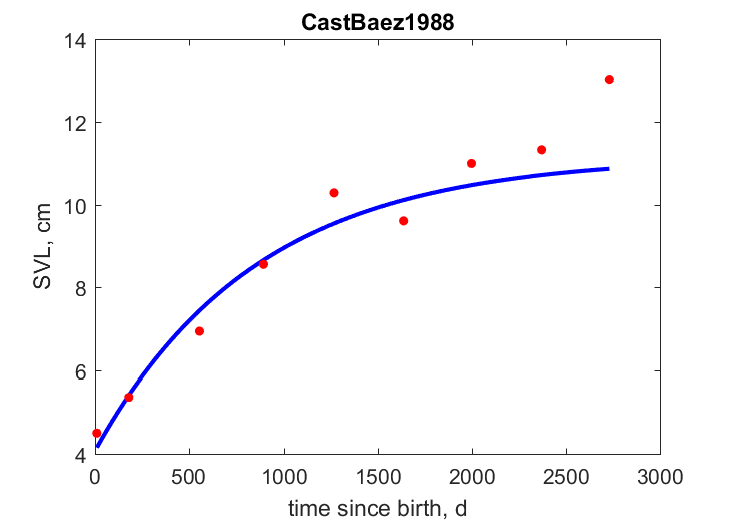
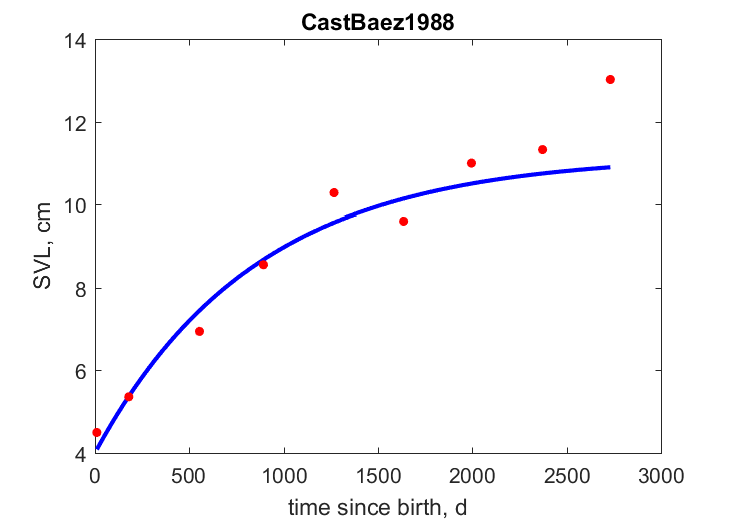
Gallotia galloti files for upload to AmP

diff --git a/Gallotia_galloti_res.html b/Gallotia_galloti_res.html
@@ -44,7 +44,7 @@
   </div>
 
   <div class="par">
-  <h4>COMPLETE = 2.5; MRE =    0.101; SMSE =    0.096 </h4>
+  <h4>COMPLETE = 2.5; MRE =    0.110; SMSE =    0.098 </h4>
   </div>
 
   <p class="clear"></p>
@@ -53,27 +53,26 @@
   <h2>Data & predictions</h2>
   <TABLE id="prd">
     <TR  class="head"><TH>data</TH> <TH>prd</TH> <TH>RE</TH>  <TH>symbol</TH> <TH>units</TH> <TH>description</TH> </TR>
-    <TR><TD> 56</TD> <TD>59.38</TD> <TD>0.06029</TD> <TD>ab</TD> <TD>d</TD> <TD>age at birth</TD></TR>
-    <TR><TD>1460</TD> <TD>1379</TD> <TD>0.05566</TD> <TD>tp</TD> <TD>d</TD> <TD>time since birth at puberty</TD></TR>
-    <TR><TD>2920</TD> <TD>2920</TD> <TD>6.71e-06</TD> <TD>am</TD> <TD>d</TD> <TD>life span</TD></TR>
-    <TR><TD>4.5</TD> <TD>4.067</TD> <TD>0.09617</TD> <TD>Lb</TD> <TD>cm</TD> <TD>SVL at hatching</TD></TR>
-    <TR><TD>7.7</TD> <TD>9.305</TD> <TD>0.2084</TD> <TD>Lp</TD> <TD>cm</TD> <TD>SVL at puberty</TD></TR>
-    <TR><TD>8.1</TD> <TD>12.24</TD> <TD>0.5109</TD> <TD>Lpm</TD> <TD>cm</TD> <TD>SVL at puberty males</TD></TR>
-    <TR><TD>10.2</TD> <TD>11.16</TD> <TD>0.0939</TD> <TD>Li</TD> <TD>cm</TD> <TD>ultimate SVL</TD></TR>
-    <TR><TD>12.2</TD> <TD>12.24</TD> <TD>0.003157</TD> <TD>Lim</TD> <TD>cm</TD> <TD>ultimate SVL males</TD></TR>
-    <TR><TD>1.63</TD> <TD>1.704</TD> <TD>0.04526</TD> <TD>Ww0</TD> <TD>g</TD> <TD>wet weight of egg</TD></TR>
-    <TR><TD>1.16</TD> <TD>1.109</TD> <TD>0.04369</TD> <TD>Wwb</TD> <TD>g</TD> <TD>wet weight of hatchlings</TD></TR>
-    <TR><TD>20.72</TD> <TD>22.9</TD> <TD>0.1054</TD> <TD>Wwi</TD> <TD>g</TD> <TD>ultimate wet weight</TD></TR>
-    <TR><TD>34.43</TD> <TD>30.65</TD> <TD>0.1097</TD> <TD>Wwim</TD> <TD>g</TD> <TD>ultimate wet weight of males</TD></TR>
-    <TR><TD>0.008082</TD> <TD>0.007986</TD> <TD>0.01188</TD> <TD>Ri</TD> <TD>#/d</TD> <TD>maximum reprod rate</TD></TR>
-    <TR><TD colspan="2">see figure</TD> <TD>0.06858</TD> <TD>tL</TD> <TD colspan="2">time since birth, <font color="blue"><i>vs.</i></font> SVL</TD>
-    <TR class="psd"><TD>0.02</TD> <TD>0.06303</TD> <TD>2.152</TD> <TD>psd.v</TD> <TD>cm/d</TD> <TD>energy conductance</TD></TR>
-    <TR class="psd"><TD>0.8</TD> <TD>0.7629</TD> <TD>0.04635</TD> <TD>psd.kap</TD> <TD>-</TD> <TD>allocation fraction to soma</TD></TR>
+    <TR><TD> 56</TD> <TD>59.51</TD> <TD>0.06263</TD> <TD>ab</TD> <TD>d</TD> <TD>age at birth</TD></TR>
+    <TR><TD>1460</TD> <TD>1350</TD> <TD>0.07533</TD> <TD>tp</TD> <TD>d</TD> <TD>time since birth at puberty</TD></TR>
+    <TR><TD>2920</TD> <TD>2920</TD> <TD>8.999e-06</TD> <TD>am</TD> <TD>d</TD> <TD>life span</TD></TR>
+    <TR><TD>4.5</TD> <TD>4.003</TD> <TD>0.1105</TD> <TD>Lb</TD> <TD>cm</TD> <TD>SVL at hatching</TD></TR>
+    <TR><TD>7.7</TD> <TD>9.279</TD> <TD>0.2051</TD> <TD>Lp</TD> <TD>cm</TD> <TD>SVL at puberty</TD></TR>
+    <TR><TD>8.1</TD> <TD>12.21</TD> <TD>0.5076</TD> <TD>Lpm</TD> <TD>cm</TD> <TD>SVL at puberty males</TD></TR>
+    <TR><TD>10.2</TD> <TD>11.18</TD> <TD>0.09597</TD> <TD>Li</TD> <TD>cm</TD> <TD>ultimate SVL</TD></TR>
+    <TR><TD>12.2</TD> <TD>12.21</TD> <TD>0.0009618</TD> <TD>Lim</TD> <TD>cm</TD> <TD>ultimate SVL males</TD></TR>
+    <TR><TD>1.63</TD> <TD>1.748</TD> <TD>0.07238</TD> <TD>Ww0</TD> <TD>g</TD> <TD>wet weight of egg</TD></TR>
+    <TR><TD>1.16</TD> <TD>1.065</TD> <TD>0.08149</TD> <TD>Wwb</TD> <TD>g</TD> <TD>wet weight of hatchlings</TD></TR>
+    <TR><TD>20.72</TD> <TD>23.21</TD> <TD>0.1201</TD> <TD>Wwi</TD> <TD>g</TD> <TD>ultimate wet weight</TD></TR>
+    <TR><TD>34.43</TD> <TD>30.71</TD> <TD>0.1081</TD> <TD>Wwim</TD> <TD>g</TD> <TD>ultimate wet weight of males</TD></TR>
+    <TR><TD>0.008082</TD> <TD>0.007857</TD> <TD>0.0279</TD> <TD>Ri</TD> <TD>#/d</TD> <TD>maximum reprod rate</TD></TR>
+    <TR><TD colspan="2">see figure</TD> <TD>0.06817</TD> <TD>tL</TD> <TD colspan="2">time since birth, <font color="blue"><i>vs.</i></font> SVL</TD>
+    <TR class="psd"><TD>0.02</TD> <TD>0.06123</TD> <TD>2.061</TD> <TD>psd.v</TD> <TD>cm/d</TD> <TD>energy conductance</TD></TR>
+    <TR class="psd"><TD>0.8</TD> <TD>0.7036</TD> <TD>0.1205</TD> <TD>psd.kap</TD> <TD>-</TD> <TD>allocation fraction to soma</TD></TR>
     <TR class="psd"><TD>0.95</TD> <TD>0.95</TD> <TD>  0</TD> <TD>psd.kap_R</TD> <TD>-</TD> <TD>reproduction efficiency</TD></TR>
-    <TR class="psd"><TD> 18</TD> <TD>21.19</TD> <TD>0.1773</TD> <TD>psd.p_M</TD> <TD>J/d.cm^3</TD> <TD>vol-spec som maint</TD></TR>
-    <TR class="psd"><TD>0.002</TD> <TD>0.0007962</TD> <TD>0.6019</TD> <TD>psd.k_J</TD> <TD>1/d</TD> <TD>maturity maint rate coefficient</TD></TR>
-    <TR class="psd"><TD>0.8</TD> <TD>0.802</TD> <TD>0.002508</TD> <TD>psd.kap_G</TD> <TD>-</TD> <TD>growth efficiency</TD></TR>
-    <TR class="psd"><TD>0.3</TD> <TD>0.294</TD> <TD>0.01985</TD> <TD>psd.k</TD> <TD>-</TD> <TD>maintenance ratio</TD></TR>
+    <TR class="psd"><TD> 18</TD> <TD>21.51</TD> <TD>0.195</TD> <TD>psd.p_M</TD> <TD>J/d.cm^3</TD> <TD>vol-spec som maint</TD></TR>
+    <TR class="psd"><TD>0.002</TD> <TD>0.002</TD> <TD>  0</TD> <TD>psd.k_J</TD> <TD>1/d</TD> <TD>maturity maint rate coefficient</TD></TR>
+    <TR class="psd"><TD>0.8</TD> <TD>0.8029</TD> <TD>0.003588</TD> <TD>psd.kap_G</TD> <TD>-</TD> <TD>growth efficiency</TD></TR>
   </TABLE>
   </div>
 
@@ -83,25 +82,25 @@
     <TR class="head"><TH>symbol</TH> <TH>units</TH> <TH>value</TH>  <TH>free</TH> <TH>description</TH> </TR>
     <TR><TD>T_ref</TD> <TD>K</TD> <TD>293.1</TD> <TD>0</TD> <TD>Reference temperature</TD></TR>
     <TR><TD>T_A</TD> <TD>K</TD> <TD>8000</TD> <TD>0</TD> <TD>Arrhenius temperature</TD></TR>
-    <TR><TD>z</TD> <TD>-</TD> <TD>2.694</TD> <TD>1</TD> <TD>zoom factor for females</TD></TR>
+    <TR><TD>z</TD> <TD>-</TD> <TD>2.688</TD> <TD>1</TD> <TD>zoom factor for females</TD></TR>
     <TR><TD>F_m</TD> <TD>l/d.cm^2</TD> <TD>6.5</TD> <TD>0</TD> <TD>{F_m}, max spec searching rate</TD></TR>
     <TR><TD>kap_X</TD> <TD>-</TD> <TD>0.8</TD> <TD>0</TD> <TD>digestion efficiency of food to reserve</TD></TR>
     <TR><TD>kap_P</TD> <TD>-</TD> <TD>0.1</TD> <TD>0</TD> <TD>faecation efficiency of food to faeces</TD></TR>
-    <TR><TD>v</TD> <TD>cm/d</TD> <TD>0.06303</TD> <TD>1</TD> <TD>energy conductance</TD></TR>
-    <TR><TD>kap</TD> <TD>-</TD> <TD>0.7629</TD> <TD>1</TD> <TD>allocation fraction to soma</TD></TR>
+    <TR><TD>v</TD> <TD>cm/d</TD> <TD>0.06123</TD> <TD>1</TD> <TD>energy conductance</TD></TR>
+    <TR><TD>kap</TD> <TD>-</TD> <TD>0.7036</TD> <TD>1</TD> <TD>allocation fraction to soma</TD></TR>
     <TR><TD>kap_R</TD> <TD>-</TD> <TD>0.95</TD> <TD>0</TD> <TD>reproduction efficiency</TD></TR>
-    <TR><TD>p_M</TD> <TD>J/d.cm^3</TD> <TD>21.19</TD> <TD>1</TD> <TD>[p_M], vol-spec somatic maint</TD></TR>
+    <TR><TD>p_M</TD> <TD>J/d.cm^3</TD> <TD>21.51</TD> <TD>1</TD> <TD>[p_M], vol-spec somatic maint</TD></TR>
     <TR><TD>p_T</TD> <TD>J/d.cm^2</TD> <TD>  0</TD> <TD>0</TD> <TD>{p_T}, surf-spec somatic maint</TD></TR>
-    <TR><TD>k_J</TD> <TD>1/d</TD> <TD>0.0007962</TD> <TD>1</TD> <TD>maturity maint rate coefficient</TD></TR>
-    <TR><TD>E_G</TD> <TD>J/cm^3</TD> <TD>7826</TD> <TD>1</TD> <TD>[E_G], spec cost for structure</TD></TR>
-    <TR><TD>E_Hb</TD> <TD>J</TD> <TD>2455</TD> <TD>1</TD> <TD>maturity at birth</TD></TR>
-    <TR><TD>E_Hp</TD> <TD>J</TD> <TD>5.841e+04</TD> <TD>1</TD> <TD>maturity at puberty</TD></TR>
-    <TR><TD>h_a</TD> <TD>1/d^2</TD> <TD>4.201e-09</TD> <TD>1</TD> <TD>Weibull aging acceleration</TD></TR>
+    <TR><TD>k_J</TD> <TD>1/d</TD> <TD>0.002</TD> <TD>0</TD> <TD>maturity maint rate coefficient</TD></TR>
+    <TR><TD>E_G</TD> <TD>J/cm^3</TD> <TD>7817</TD> <TD>1</TD> <TD>[E_G], spec cost for structure</TD></TR>
+    <TR><TD>E_Hb</TD> <TD>J</TD> <TD>3012</TD> <TD>1</TD> <TD>maturity at birth</TD></TR>
+    <TR><TD>E_Hp</TD> <TD>J</TD> <TD>4.655e+04</TD> <TD>1</TD> <TD>maturity at puberty</TD></TR>
+    <TR><TD>h_a</TD> <TD>1/d^2</TD> <TD>4.317e-09</TD> <TD>1</TD> <TD>Weibull aging acceleration</TD></TR>
     <TR><TD>s_G</TD> <TD>-</TD> <TD>0.0001</TD> <TD>0</TD> <TD>Gompertz stress coefficient</TD></TR>
-    <TR><TD>E_Hpm</TD> <TD>J</TD> <TD>4.06e+05</TD> <TD>1</TD> <TD>maturity at puberty for males</TD></TR>
-    <TR><TD>del_M</TD> <TD>-</TD> <TD>0.2414</TD> <TD>1</TD> <TD>shape coefficient</TD></TR>
+    <TR><TD>E_Hpm</TD> <TD>J</TD> <TD>5.722e+05</TD> <TD>1</TD> <TD>maturity at puberty for males</TD></TR>
+    <TR><TD>del_M</TD> <TD>-</TD> <TD>0.2405</TD> <TD>1</TD> <TD>shape coefficient</TD></TR>
     <TR><TD>f</TD> <TD>-</TD> <TD>  1</TD> <TD>0</TD> <TD>scaled functional response for 0-var data</TD></TR>
-    <TR><TD>z_m</TD> <TD>-</TD> <TD>2.954</TD> <TD>1</TD> <TD>zoom factor for males</TD></TR>
+    <TR><TD>z_m</TD> <TD>-</TD> <TD>2.937</TD> <TD>1</TD> <TD>zoom factor for males</TD></TR>
   </TABLE>
   </div>
 

diff --git a/pars_init_Gallotia_galloti.m b/pars_init_Gallotia_galloti.m
@@ -7,27 +7,27 @@ par.T_ref = 293.15;   free.T_ref = 0;   units.T_ref = 'K';        label.T_ref = 
 
 %% core primary parameters 
 par.T_A = 8000;       free.T_A   = 0;   units.T_A = 'K';          label.T_A = 'Arrhenius temperature'; 
-par.z = 2.6936;       free.z     = 1;   units.z = '-';            label.z = 'zoom factor for females'; 
+par.z = 2.6884;       free.z     = 1;   units.z = '-';            label.z = 'zoom factor for females'; 
 par.F_m = 6.5;        free.F_m   = 0;   units.F_m = 'l/d.cm^2';   label.F_m = '{F_m}, max spec searching rate'; 
 par.kap_X = 0.8;      free.kap_X = 0;   units.kap_X = '-';        label.kap_X = 'digestion efficiency of food to reserve'; 
 par.kap_P = 0.1;      free.kap_P = 0;   units.kap_P = '-';        label.kap_P = 'faecation efficiency of food to faeces'; 
-par.v = 0.063034;     free.v     = 1;   units.v = 'cm/d';         label.v = 'energy conductance'; 
-par.kap = 0.76292;    free.kap   = 1;   units.kap = '-';          label.kap = 'allocation fraction to soma'; 
+par.v = 0.061226;     free.v     = 1;   units.v = 'cm/d';         label.v = 'energy conductance'; 
+par.kap = 0.70361;    free.kap   = 1;   units.kap = '-';          label.kap = 'allocation fraction to soma'; 
 par.kap_R = 0.95;     free.kap_R = 0;   units.kap_R = '-';        label.kap_R = 'reproduction efficiency'; 
-par.p_M = 21.1909;    free.p_M   = 1;   units.p_M = 'J/d.cm^3';   label.p_M = '[p_M], vol-spec somatic maint'; 
+par.p_M = 21.5095;    free.p_M   = 1;   units.p_M = 'J/d.cm^3';   label.p_M = '[p_M], vol-spec somatic maint'; 
 par.p_T = 0;          free.p_T   = 0;   units.p_T = 'J/d.cm^2';   label.p_T = '{p_T}, surf-spec somatic maint'; 
-par.k_J = 0.00079625;  free.k_J   = 1;   units.k_J = '1/d';        label.k_J = 'maturity maint rate coefficient'; 
-par.E_G = 7825.5608;  free.E_G   = 1;   units.E_G = 'J/cm^3';     label.E_G = '[E_G], spec cost for structure'; 
-par.E_Hb = 2.455e+03; free.E_Hb  = 1;   units.E_Hb = 'J';         label.E_Hb = 'maturity at birth'; 
-par.E_Hp = 5.841e+04; free.E_Hp  = 1;   units.E_Hp = 'J';         label.E_Hp = 'maturity at puberty'; 
-par.h_a = 4.201e-09;  free.h_a   = 1;   units.h_a = '1/d^2';      label.h_a = 'Weibull aging acceleration'; 
+par.k_J = 0.002;      free.k_J   = 0;   units.k_J = '1/d';        label.k_J = 'maturity maint rate coefficient'; 
+par.E_G = 7817.1401;  free.E_G   = 1;   units.E_G = 'J/cm^3';     label.E_G = '[E_G], spec cost for structure'; 
+par.E_Hb = 3.012e+03; free.E_Hb  = 1;   units.E_Hb = 'J';         label.E_Hb = 'maturity at birth'; 
+par.E_Hp = 4.655e+04; free.E_Hp  = 1;   units.E_Hp = 'J';         label.E_Hp = 'maturity at puberty'; 
+par.h_a = 4.317e-09;  free.h_a   = 1;   units.h_a = '1/d^2';      label.h_a = 'Weibull aging acceleration'; 
 par.s_G = 0.0001;     free.s_G   = 0;   units.s_G = '-';          label.s_G = 'Gompertz stress coefficient'; 
 
 %% other parameters 
-par.E_Hpm = 4.060e+05; free.E_Hpm = 1;   units.E_Hpm = 'J';        label.E_Hpm = 'maturity at puberty for males'; 
-par.del_M = 0.24141;  free.del_M = 1;   units.del_M = '-';        label.del_M = 'shape coefficient'; 
+par.E_Hpm = 5.722e+05; free.E_Hpm = 1;   units.E_Hpm = 'J';        label.E_Hpm = 'maturity at puberty for males'; 
+par.del_M = 0.24049;  free.del_M = 1;   units.del_M = '-';        label.del_M = 'shape coefficient'; 
 par.f = 1;            free.f     = 0;   units.f = '-';            label.f = 'scaled functional response for 0-var data'; 
-par.z_m = 2.9545;     free.z_m   = 1;   units.z_m = '-';          label.z_m = 'zoom factor for males'; 
+par.z_m = 2.9368;     free.z_m   = 1;   units.z_m = '-';          label.z_m = 'zoom factor for males'; 
 
 %% set chemical parameters from Kooy2010 
 [par, units, label, free] = addchem(par, units, label, free, metaData.phylum, metaData.class); 

diff --git a/mydata_Gallotia_galloti.m b/mydata_Gallotia_galloti.m
@@ -89,8 +89,8 @@ weights.tL = 10 * weights.tL;
 
 %% set pseudodata and respective weights
 [data, units, label, weights] = addpseudodata(data, units, label, weights);
-weights.psd.k_J = 0; weights.psd.k = 0.2;
-data.psd.k = 0.3; units.psd.k  = '-'; label.psd.k  = 'maintenance ratio'; 
+%weights.psd.k_J = 0; weights.psd.k = 0.2;
+%data.psd.k = 0.3; units.psd.k  = '-'; label.psd.k  = 'maintenance ratio'; 
 
 %% pack auxData and txtData for output
 auxData.temp = temp;
@@ -105,8 +105,9 @@ D2 = 'Temperatures are guessed';
 D3 = 'Data are for G. galloti galloti and G. galloti eisentrauti (impossible to split since tL data is a mixed of subspecies)';
 D4 = 'Difference to previous entry: added Lpm, Lim, Ww0 and Wwh';
 D5 = 'Difference to previous entry: changed Lp and Lim (not consistent with the sexual dimorphism in favor of males (MoliRodr2004)); changed Ri (largely overestimated according to MoliRodr2004); changed Wwi (it was estimated previously)';
-D6 = 'All the new data added is for G. galloti galloti';
-metaData.discussion = struct('D1', D1, 'D2', D2, 'D3', D3, 'D4', D4, 'D5', D5, 'D6', D6);
+D6 = 'All the new data added is for G. galloti galloti, except Ww0 for G. galloti eisentrauti';
+D7 = 'Difference to previous entry: Parameter values result in k of around 0.7 with  pseudodata k_J = 0.002 1/d';
+metaData.discussion = struct('D1', D1, 'D2', D2, 'D3', D3, 'D4', D4, 'D5', D5, 'D6', D6, 'D7', D7);
 
 %% Links
 metaData.links.id_CoL = '7cc21994a3a81bea79a427e804b57632'; % Cat of Life

diff --git a/run_Gallotia_galloti.m b/run_Gallotia_galloti.m
@@ -9,7 +9,7 @@ estim_options('max_step_number', 5e3);
 estim_options('max_fun_evals', 5e3); 
 
 estim_options('pars_init_method', 2); 
-estim_options('results_output', 3); 
+estim_options('results_output', 4); 
 estim_options('method', 'no'); 
 
 estim_pars; 
